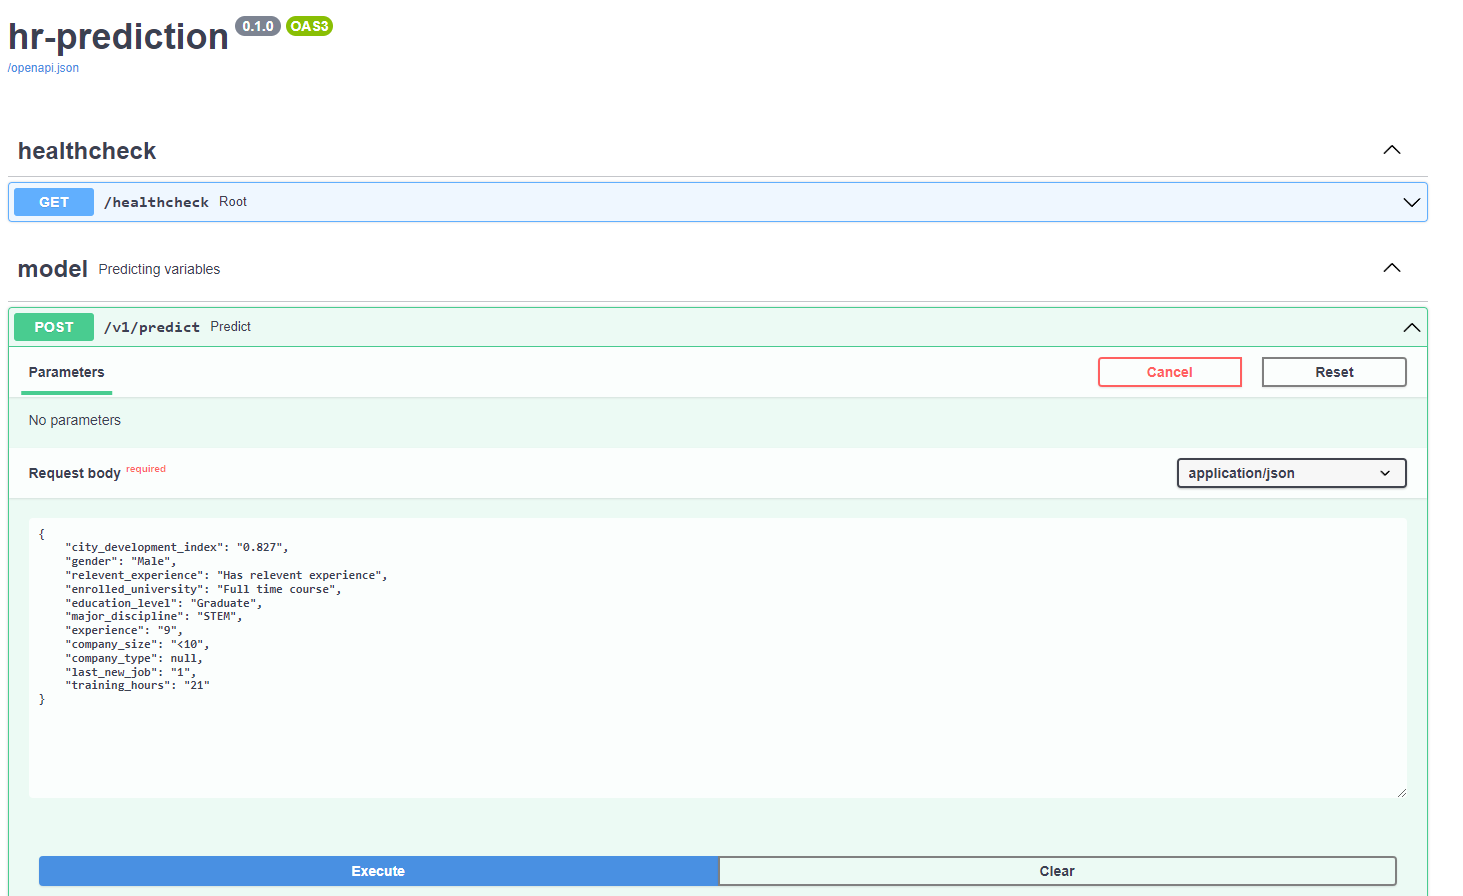
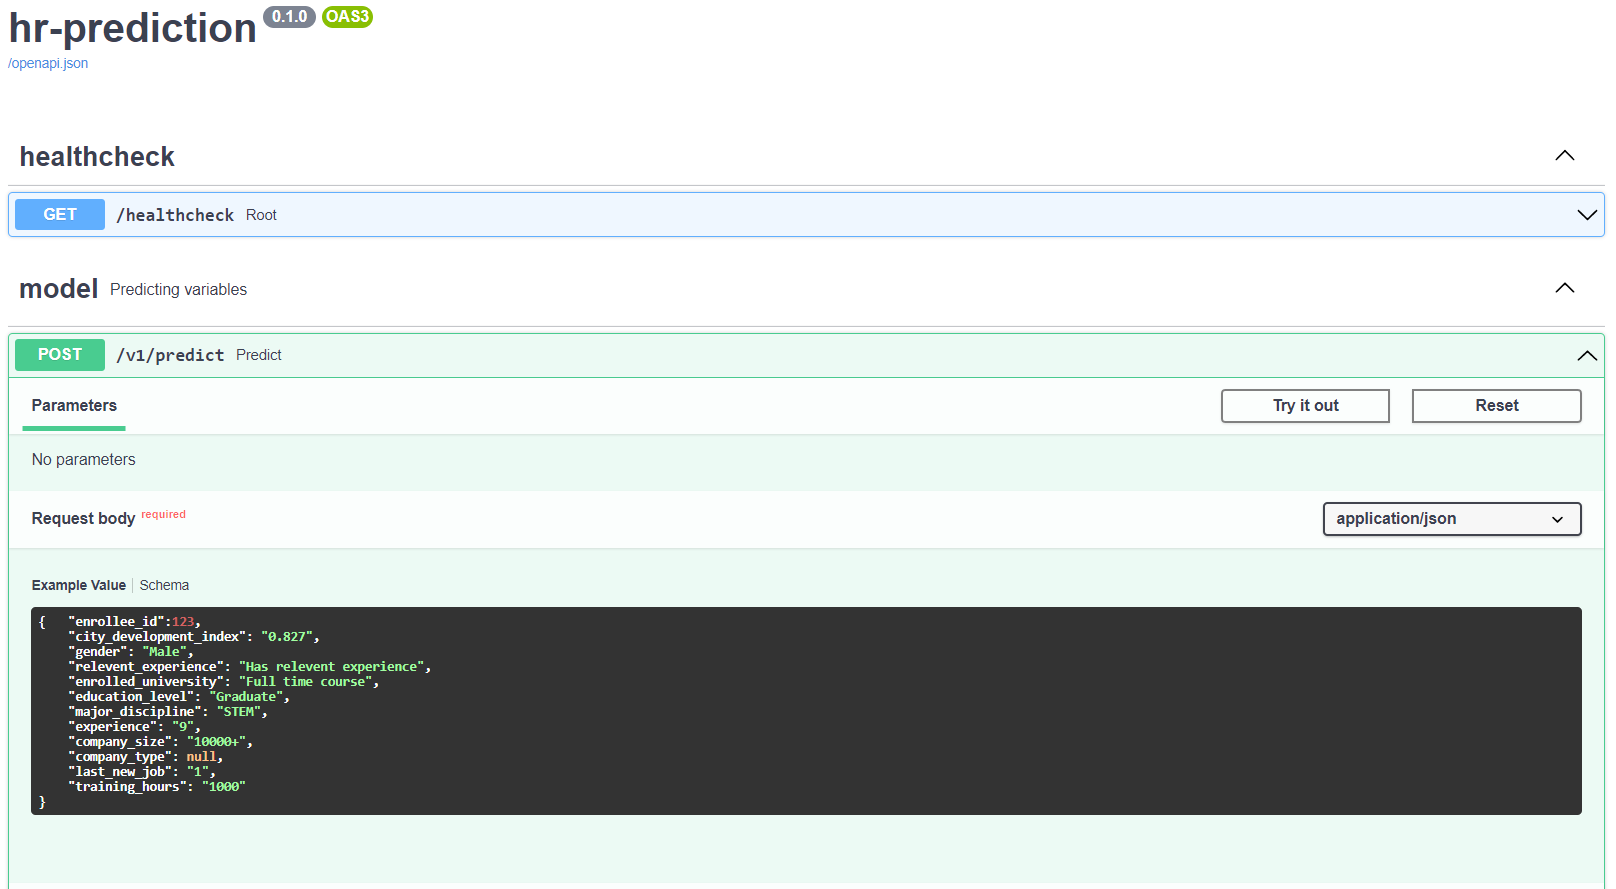
updated photos

diff --git a/README.md b/README.md
@@ -43,7 +43,7 @@ python run.py
 Example of sending an inference request via Swagger UI:
 ![Fastapi](images/fastapi_demo.png)
 Example of output:
-![Fastapioutput](placeholder)
+![Fastapioutput](images/fastapi_output.png)
 Example of sending an inference request via command line:
 ```
 curl -X 'POST' \
@@ -51,6 +51,7 @@ curl -X 'POST' \
   -H 'accept: application/json' \
   -H 'Content-Type: application/json' \
   -d '{
+    "enrollee_id": 12,
     "city_development_index": "0.827",
     "gender": "Male",
     "relevent_experience": "Has relevent experience",
